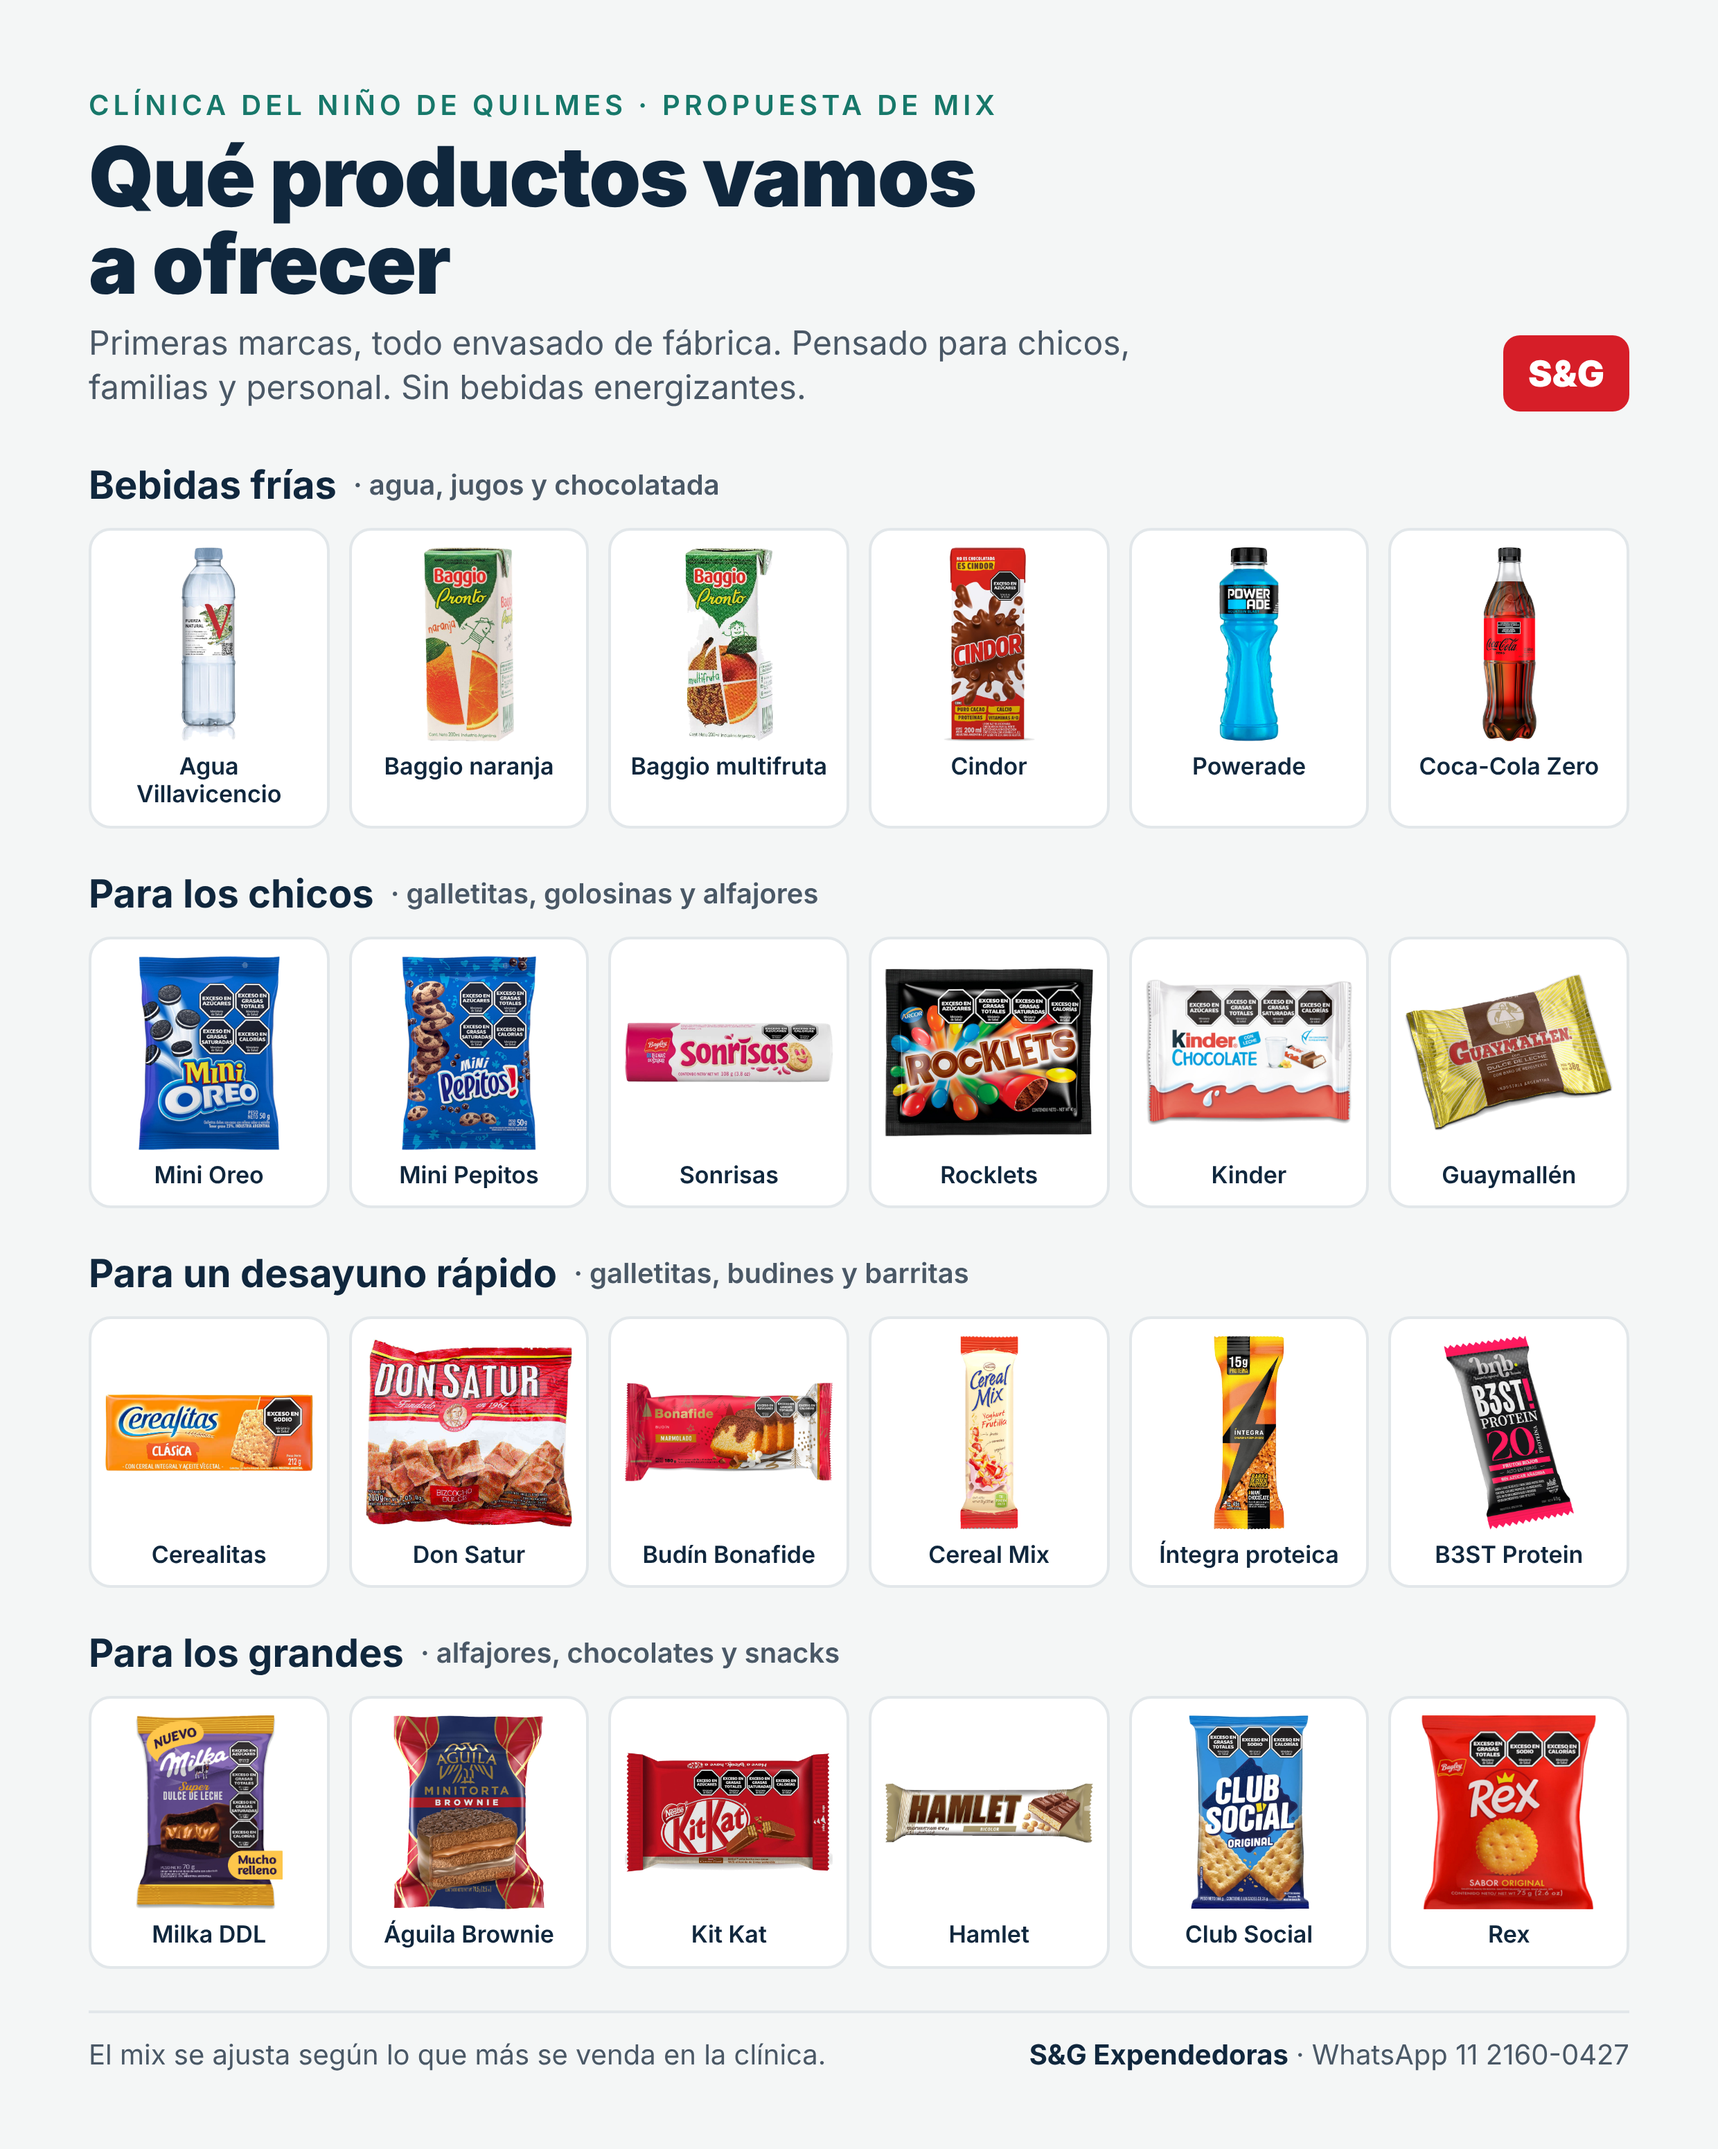
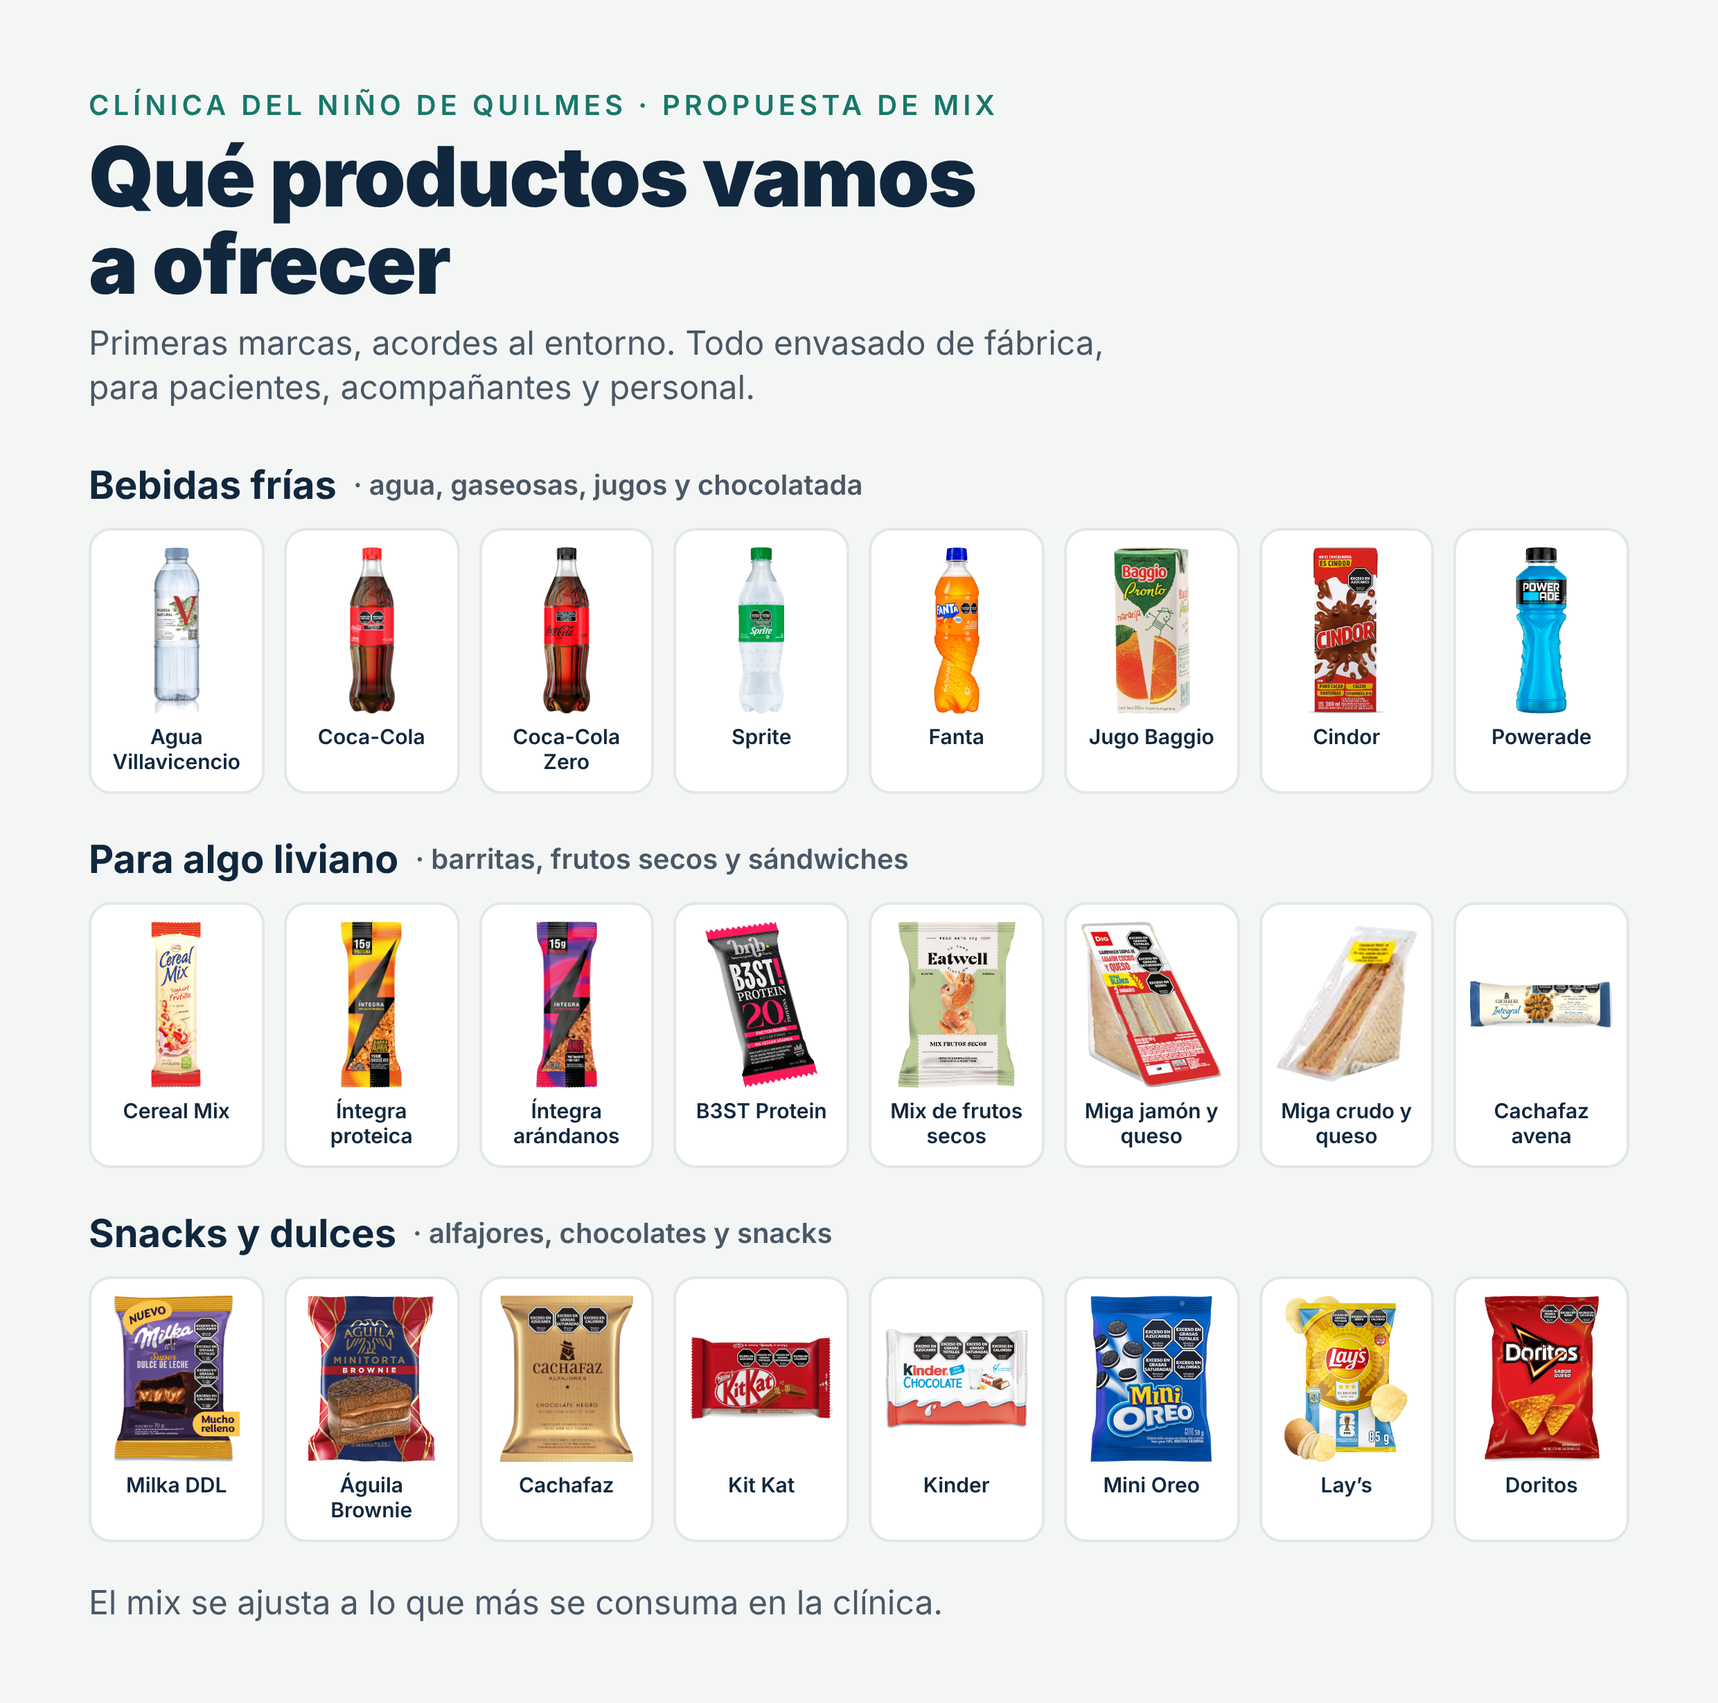
Visita Clínica del Niño: catálogo con el mix del sanatorio
Claude-Session: https://claude.ai/code/session_019riW69UisGa26ciLraXE3K

Changed region(s): [[0.031, 0.0309, 0.9625, 0.9585], [0.8694, 0.1546, 0.9625, 0.2164], [0.5589, 0.8967, 0.5899, 0.9276]]

diff --git a/visita-clinica-nino/catalogo.html b/visita-clinica-nino/catalogo.html
@@ -14,17 +14,12 @@ h1{font-size:60px;font-weight:900;line-height:1.05;letter-spacing:-1px;margin-to
 .sec{margin-top:30px}
 .sec h2{font-size:28px;font-weight:700;display:flex;align-items:center;gap:12px;margin-bottom:14px}
 .sec h2 span{font-size:20px;font-weight:600;color:var(--ink)}
-.grid{display:grid;grid-template-columns:repeat(6,1fr);gap:14px}
+.grid{display:grid;grid-template-columns:repeat(8,1fr);gap:14px}
 .p{background:var(--card);border:2px solid var(--line);border-radius:16px;padding:12px 10px 12px;display:flex;flex-direction:column;align-items:center;gap:8px}
-.p img{width:100%;height:140px;object-fit:contain}
-.p b{font-size:17px;font-weight:600;text-align:center;line-height:1.2}
+.p img{width:100%;height:120px;object-fit:contain}
+.p b{font-size:15px;font-weight:600;text-align:center;line-height:1.2}
 .foot{margin-top:30px;display:flex;justify-content:space-between;font-size:20px;color:var(--ink);border-top:2px solid var(--line);padding-top:18px}
 .foot b{color:var(--navy)}
-</style></head><body>
-<div class="top"><div><p class="eyebrow">CLÍNICA DEL NIÑO DE QUILMES · PROPUESTA DE MIX</p>
+</style></head><body><div class="top"><div><p class="eyebrow">CLÍNICA DEL NIÑO DE QUILMES · PROPUESTA DE MIX</p>
 <h1>Qué productos vamos<br>a ofrecer</h1>
-<p class="sub">Primeras marcas, todo envasado de fábrica. Pensado para chicos, familias y personal. Sin bebidas energizantes.</p></div>
-<div class="brand">S&amp;G</div></div>
-<div class="sec"><h2>Bebidas frías <span>· agua, jugos y chocolatada</span></h2><div class="grid"><div class="p"><img src="file:///home/user/suscripcion-smg/maquina-expendedora/productos/01_agua_villavicencio.png"><b>Agua Villavicencio</b></div><div class="p"><img src="file:///home/user/suscripcion-smg/maquina-expendedora/productos/02_baggio_naranja.png"><b>Baggio naranja</b></div><div class="p"><img src="file:///home/user/suscripcion-smg/maquina-expendedora/productos/03_baggio_multifruta.png"><b>Baggio multifruta</b></div><div class="p"><img src="file:///home/user/suscripcion-smg/maquina-expendedora/productos/04_cindor.png"><b>Cindor</b></div><div class="p"><img src="file:///home/user/suscripcion-smg/maquina-expendedora/productos/09_powerade.png"><b>Powerade</b></div><div class="p"><img src="file:///home/user/suscripcion-smg/maquina-expendedora/productos/07_coca_zero.png"><b>Coca-Cola Zero</b></div></div></div><div class="sec"><h2>Para los chicos <span>· galletitas, golosinas y alfajores</span></h2><div class="grid"><div class="p"><img src="file:///home/user/suscripcion-smg/maquina-expendedora/productos/16_mini_oreo.png"><b>Mini Oreo</b></div><div class="p"><img src="file:///home/user/suscripcion-smg/maquina-expendedora/productos/17_mini_pepitos.png"><b>Mini Pepitos</b></div><div class="p"><img src="file:///home/user/suscripcion-smg/maquina-expendedora/productos/66_sonrisas.png"><b>Sonrisas</b></div><div class="p"><img src="file:///home/user/suscripcion-smg/maquina-expendedora/productos/31_rocklets.png"><b>Rocklets</b></div><div class="p"><img src="file:///home/user/suscripcion-smg/maquina-expendedora/productos/35_kinder.png"><b>Kinder</b></div><div class="p"><img src="file:///home/user/suscripcion-smg/maquina-expendedora/productos/30_guaymallen.png"><b>Guaymallén</b></div></div></div><div class="sec"><h2>Para un desayuno rápido <span>· galletitas, budines y barritas</span></h2><div class="grid"><div class="p"><img src="file:///home/user/suscripcion-smg/maquina-expendedora/productos/64_cerealitas.png"><b>Cerealitas</b></div><div class="p"><img src="file:///home/user/suscripcion-smg/maquina-expendedora/productos/61_don_satur_dulces.png"><b>Don Satur</b></div><div class="p"><img src="file:///home/user/suscripcion-smg/maquina-expendedora/productos/69_budin_bonafide.png"><b>Budín Bonafide</b></div><div class="p"><img src="file:///home/user/suscripcion-smg/maquina-expendedora/productos/47_cereal_mix.png"><b>Cereal Mix</b></div><div class="p"><img src="file:///home/user/suscripcion-smg/maquina-expendedora/productos/48_integra_choco.png"><b>Íntegra proteica</b></div><div class="p"><img src="file:///home/user/suscripcion-smg/maquina-expendedora/productos/68_b3st_protein.png"><b>B3ST Protein</b></div></div></div><div class="sec"><h2>Para los grandes <span>· alfajores, chocolates y snacks</span></h2><div class="grid"><div class="p"><img src="file:///home/user/suscripcion-smg/maquina-expendedora/productos/21_milka_ddl_negro.png"><b>Milka DDL</b></div><div class="p"><img src="file:///home/user/suscripcion-smg/maquina-expendedora/productos/25_aguila_brownie.png"><b>Águila Brownie</b></div><div class="p"><img src="file:///home/user/suscripcion-smg/maquina-expendedora/productos/34_kitkat.png"><b>Kit Kat</b></div><div class="p"><img src="file:///home/user/suscripcion-smg/maquina-expendedora/productos/33_hamlet.png"><b>Hamlet</b></div><div class="p"><img src="file:///home/user/suscripcion-smg/maquina-expendedora/productos/18_club_social.png"><b>Club Social</b></div><div class="p"><img src="file:///home/user/suscripcion-smg/maquina-expendedora/productos/19_rex.png"><b>Rex</b></div></div></div>
-<div class="foot"><span>El mix se ajusta según lo que más se venda en la clínica.</span><span><b>S&amp;G Expendedoras</b> · WhatsApp 11 2160-0427</span></div>
-</body></html>
+<p class="sub">Primeras marcas, acordes al entorno. Todo envasado de fábrica, para pacientes, acompañantes y personal.</p></div></div><div class="sec"><h2>Bebidas frías <span>· agua, gaseosas, jugos y chocolatada</span></h2><div class="grid"><div class="p"><img src="file:///home/user/suscripcion-smg/maquina-expendedora/productos/01_agua_villavicencio.png"><b>Agua Villavicencio</b></div><div class="p"><img src="file:///home/user/suscripcion-smg/maquina-expendedora/productos/08_coca_cola.png"><b>Coca-Cola</b></div><div class="p"><img src="file:///home/user/suscripcion-smg/maquina-expendedora/productos/07_coca_zero.png"><b>Coca-Cola Zero</b></div><div class="p"><img src="file:///home/user/suscripcion-smg/maquina-expendedora/productos/05_sprite.png"><b>Sprite</b></div><div class="p"><img src="file:///home/user/suscripcion-smg/maquina-expendedora/productos/06_fanta.png"><b>Fanta</b></div><div class="p"><img src="file:///home/user/suscripcion-smg/maquina-expendedora/productos/02_baggio_naranja.png"><b>Jugo Baggio</b></div><div class="p"><img src="file:///home/user/suscripcion-smg/maquina-expendedora/productos/04_cindor.png"><b>Cindor</b></div><div class="p"><img src="file:///home/user/suscripcion-smg/maquina-expendedora/productos/09_powerade.png"><b>Powerade</b></div></div></div><div class="sec"><h2>Para algo liviano <span>· barritas, frutos secos y sándwiches</span></h2><div class="grid"><div class="p"><img src="file:///home/user/suscripcion-smg/maquina-expendedora/productos/47_cereal_mix.png"><b>Cereal Mix</b></div><div class="p"><img src="file:///home/user/suscripcion-smg/maquina-expendedora/productos/48_integra_choco.png"><b>Íntegra proteica</b></div><div class="p"><img src="file:///home/user/suscripcion-smg/maquina-expendedora/productos/49_integra_arandanos.png"><b>Íntegra arándanos</b></div><div class="p"><img src="file:///home/user/suscripcion-smg/maquina-expendedora/productos/68_b3st_protein.png"><b>B3ST Protein</b></div><div class="p"><img src="file:///home/user/suscripcion-smg/maquina-expendedora/productos/50_frutos_secos.png"><b>Mix de frutos secos</b></div><div class="p"><img src="file:///home/user/suscripcion-smg/maquina-expendedora/productos/11_miga_jyq.png"><b>Miga jamón y queso</b></div><div class="p"><img src="file:///home/user/suscripcion-smg/maquina-expendedora/productos/13_miga_crudo.png"><b>Miga crudo y queso</b></div><div class="p"><img src="file:///home/user/suscripcion-smg/maquina-expendedora/productos/65_cachafaz_avena_chips.png"><b>Cachafaz avena</b></div></div></div><div class="sec"><h2>Snacks y dulces <span>· alfajores, chocolates y snacks</span></h2><div class="grid"><div class="p"><img src="file:///home/user/suscripcion-smg/maquina-expendedora/productos/21_milka_ddl_negro.png"><b>Milka DDL</b></div><div class="p"><img src="file:///home/user/suscripcion-smg/maquina-expendedora/productos/25_aguila_brownie.png"><b>Águila Brownie</b></div><div class="p"><img src="file:///home/user/suscripcion-smg/maquina-expendedora/productos/26_cachafaz.png"><b>Cachafaz</b></div><div class="p"><img src="file:///home/user/suscripcion-smg/maquina-expendedora/productos/34_kitkat.png"><b>Kit Kat</b></div><div class="p"><img src="file:///home/user/suscripcion-smg/maquina-expendedora/productos/35_kinder.png"><b>Kinder</b></div><div class="p"><img src="file:///home/user/suscripcion-smg/maquina-expendedora/productos/16_mini_oreo.png"><b>Mini Oreo</b></div><div class="p"><img src="file:///home/user/suscripcion-smg/maquina-expendedora/productos/51_lays.png"><b>Lay’s</b></div><div class="p"><img src="file:///home/user/suscripcion-smg/maquina-expendedora/productos/53_doritos.png"><b>Doritos</b></div></div></div><p class="sub" style="margin-top:28px">El mix se ajusta a lo que más se consuma en la clínica.</p></body></html>
